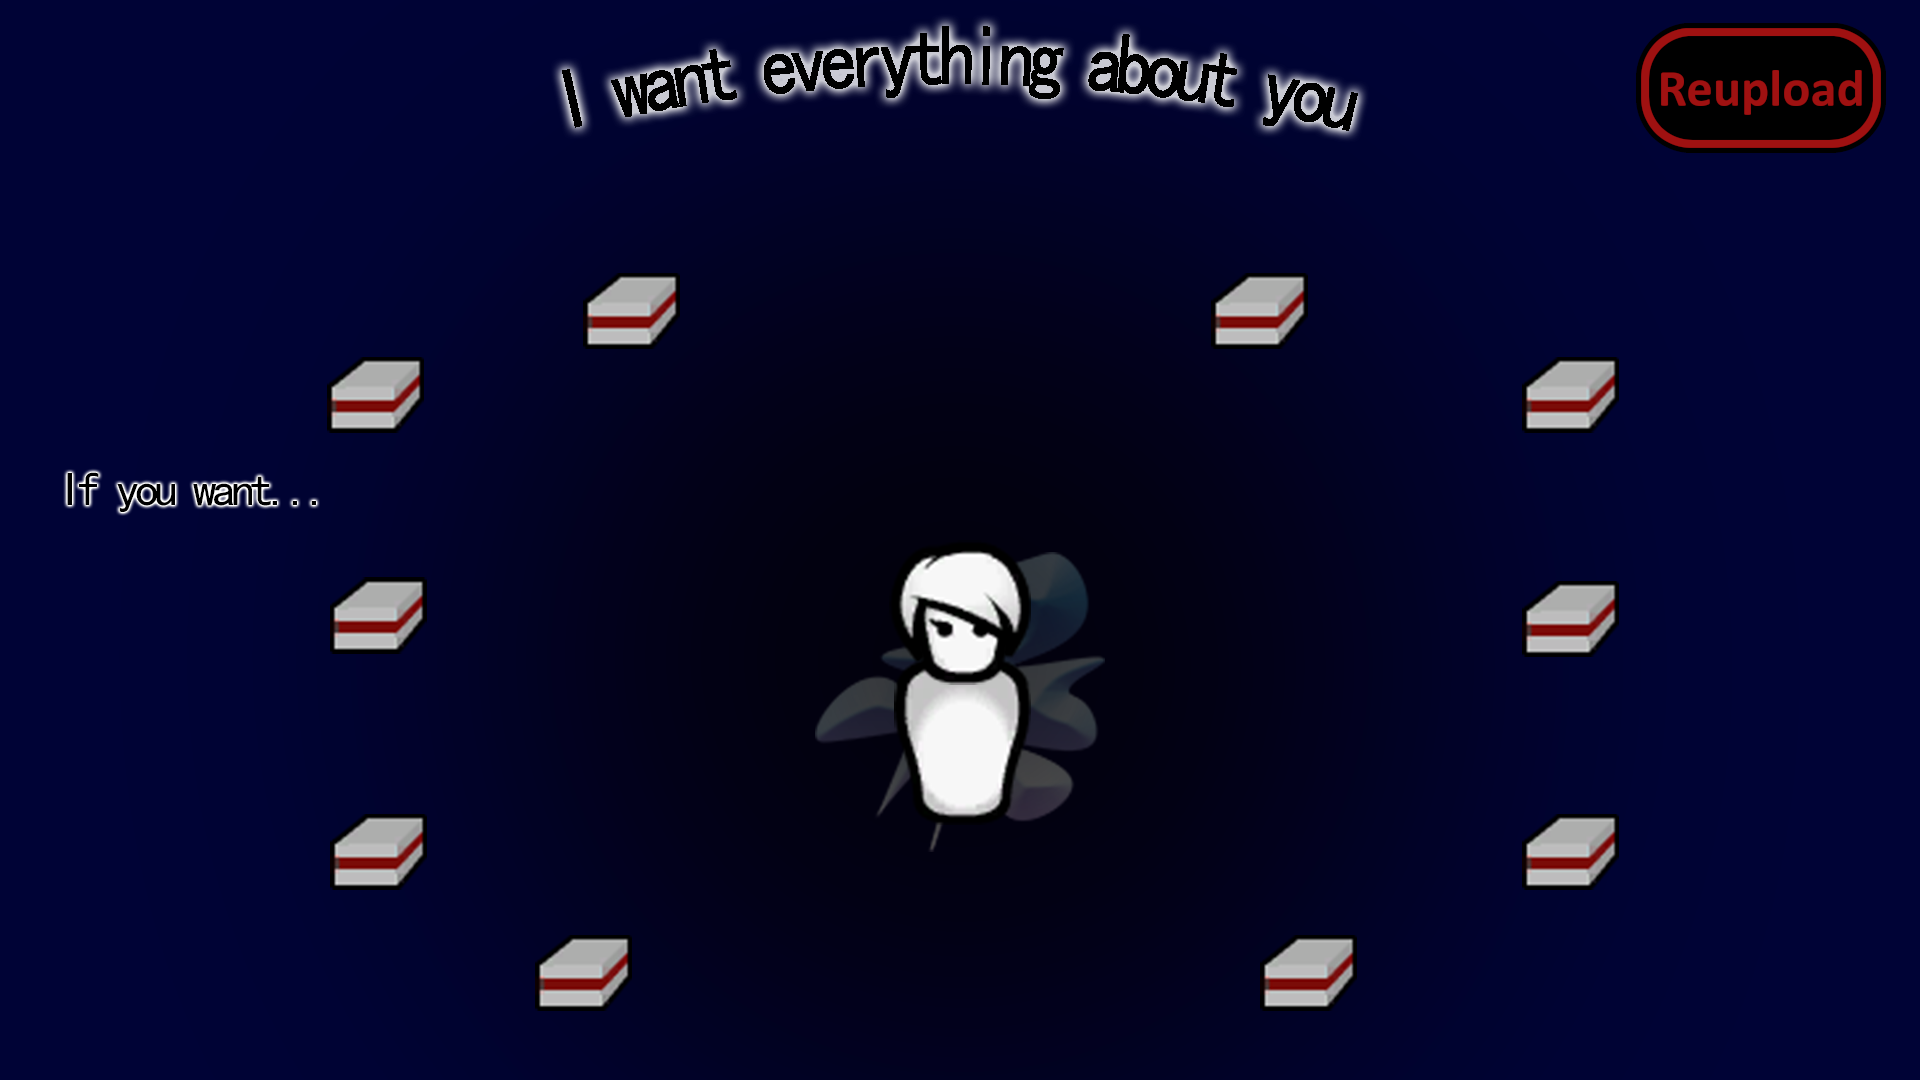
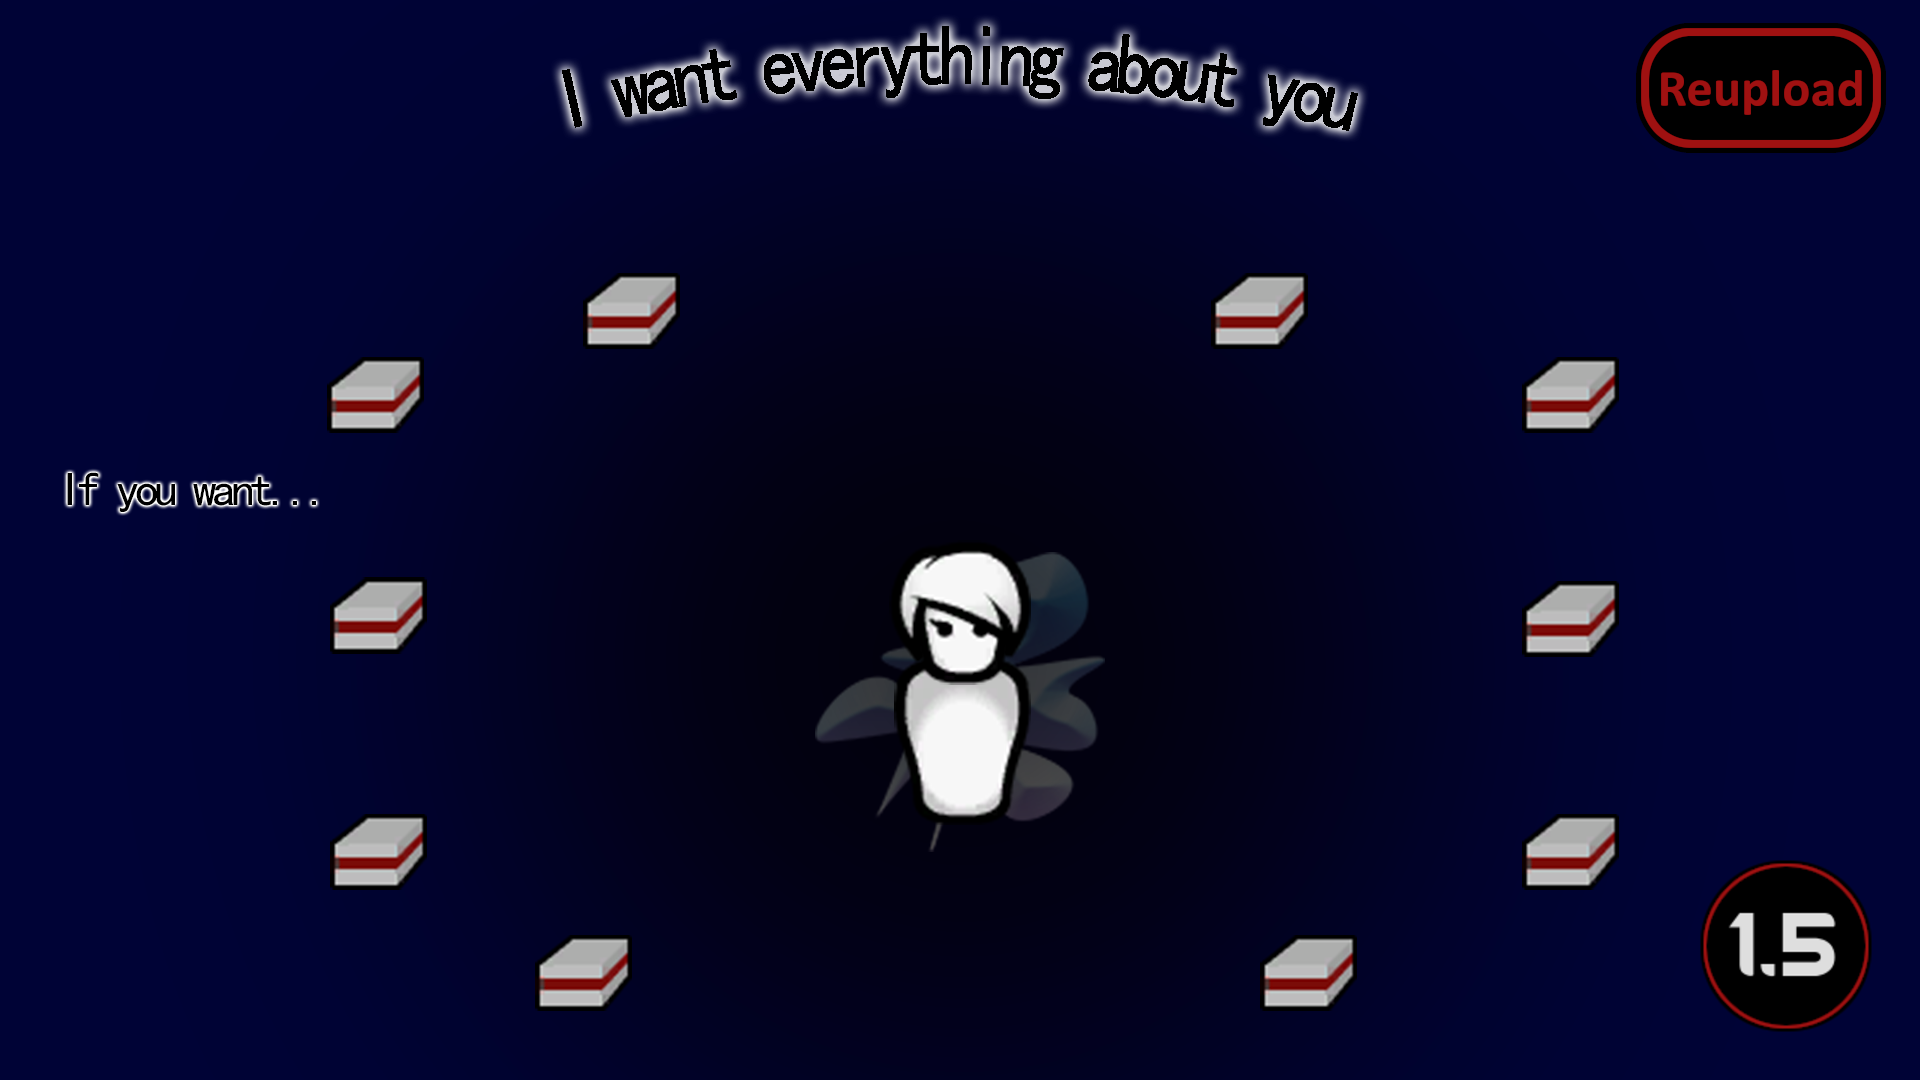
Mod updated for 1.5 and passed autotests

Changed region(s): [[0.875, 0.7944, 1.0, 0.9778]]

diff --git a/README.md b/README.md
@@ -35,11 +35,13 @@ Sorry,I can't speak english well
 
 -  See if the the error persists if you just have this mod and its requirements active.
 -  If not, try adding your other mods until it happens again.
--  Post your error-log using https://steamcommunity.com/workshop/filedetails/?id=818773962]HugsLib and command Ctrl+F12
+-  Post your error-log using https://steamcommunity.com/workshop/filedetails/?id=818773962]HugsLib or the standalone https://steamcommunity.com/sharedfiles/filedetails/?id=2873415404]Uploader and command Ctrl+F12
 -  For best support, please use the Discord-channel for error-reporting.
 -  Do not report errors by making a discussion-thread, I get no notification of that.
 -  If you have the solution for a problem, please post it to the GitHub repository.
+-  Use https://github.com/RimSort/RimSort/releases/latest]RimSort to sort your mods
 
 
 
+https://steamcommunity.com/sharedfiles/filedetails/changelog/2040207011]![Image](https://img.shields.io/github/v/release/emipa606/RemoveAllBodyParts?label=latest%20version&style=plastic&color=9f1111&labelColor=black)
 
